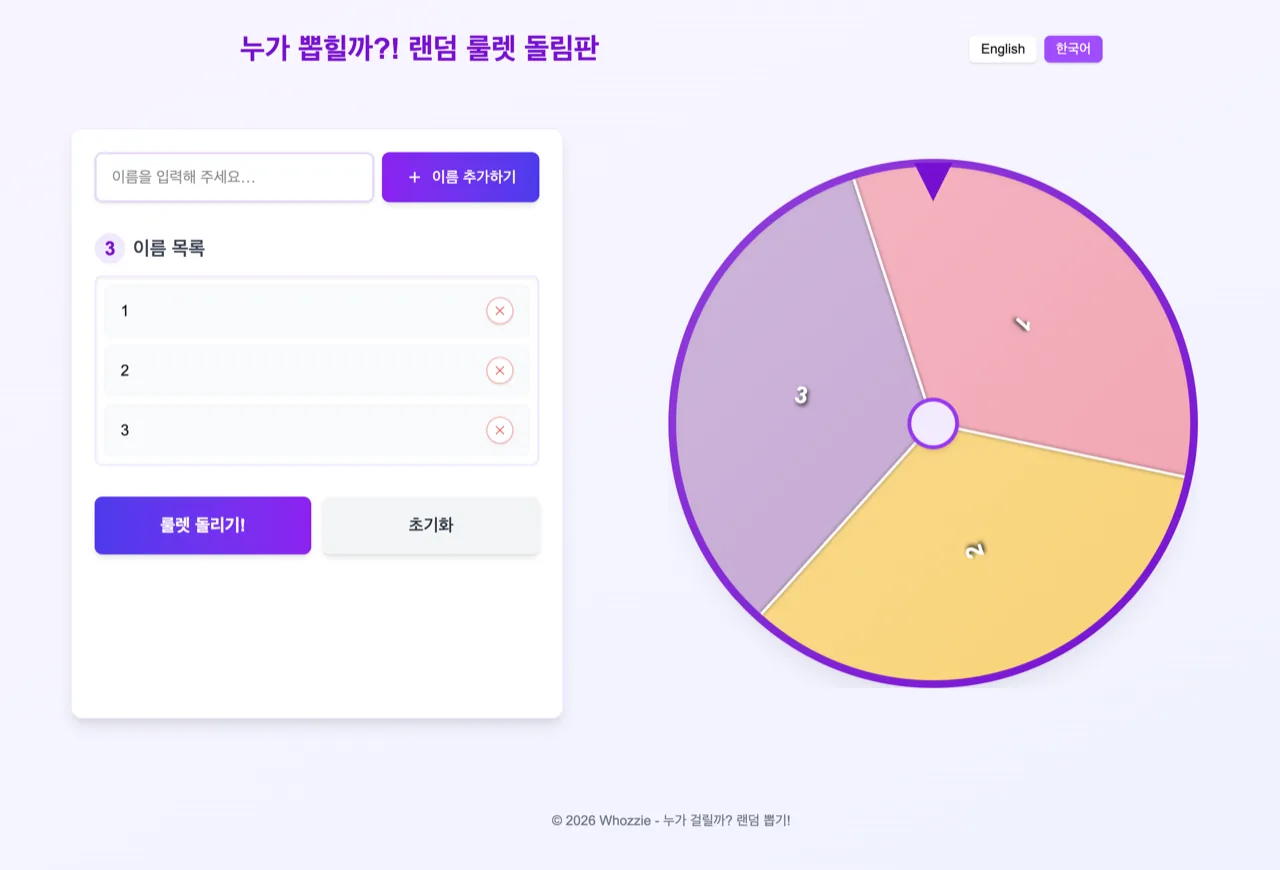
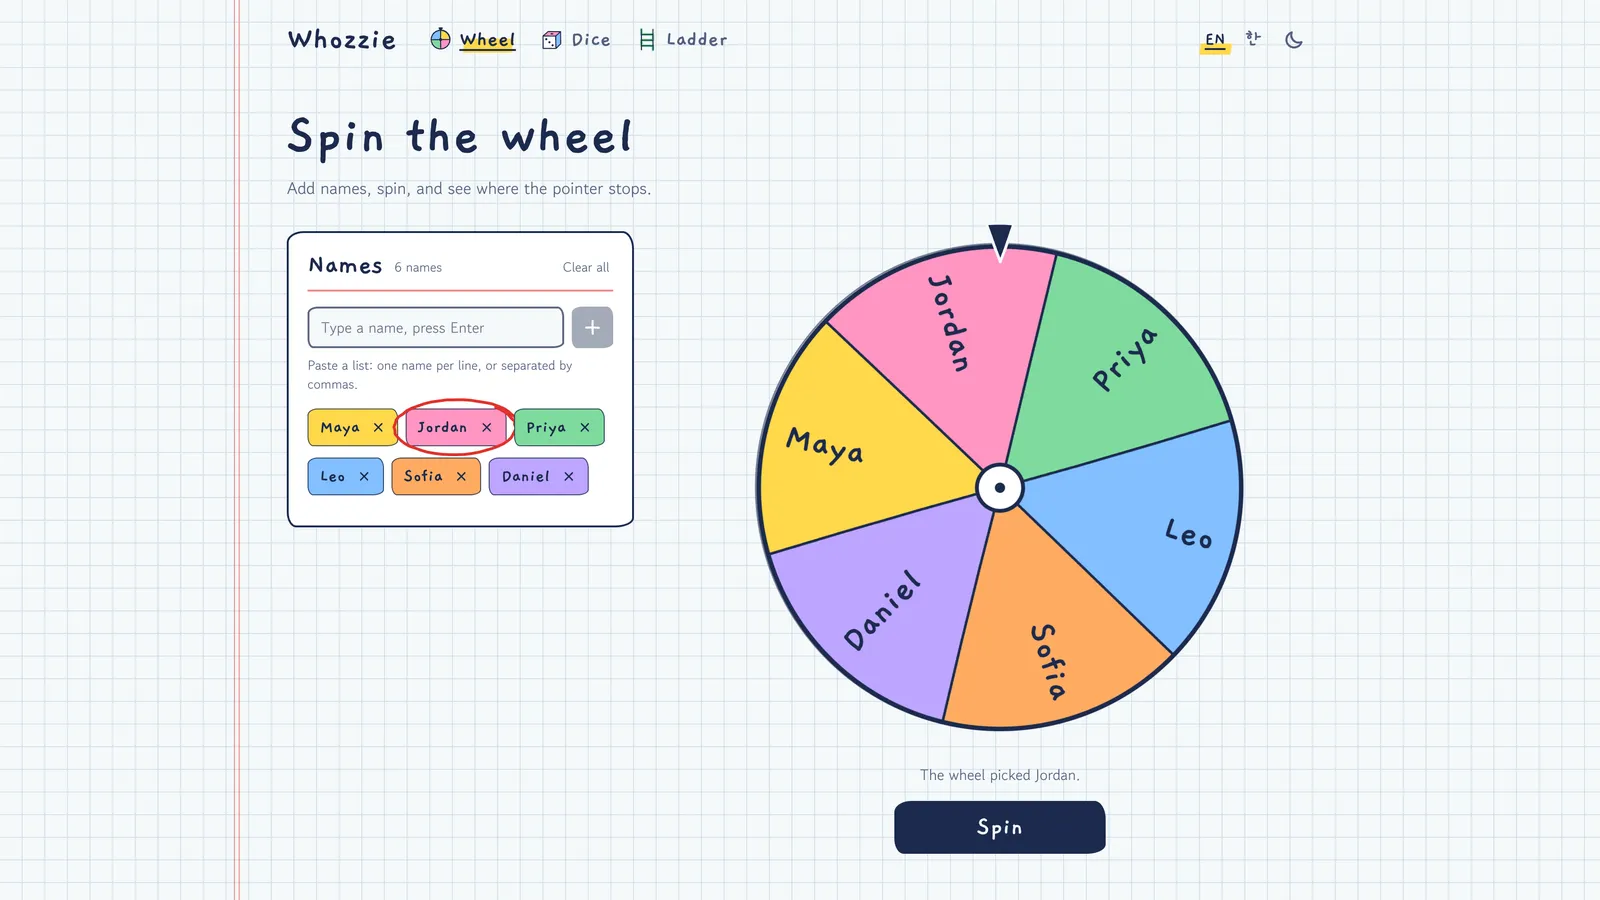
docs(projects): bring whozzie up to date
Whozzie was rebuilt in September 2026: the single wheel became three
tools sharing one names list (the wheel, real-physics 3D dice and a
ladder game) in a notebook/chalkboard design. The page described the
old wheel-only app, and the card was its old 1280x870 screenshot.

The body now covers how each tool keeps its animation out of the pick,
the Rapier dice, the shared names list and the red-pen design. The card
is a 1600x900 capture of the current wheel page. Facts were checked
against the whozzie repo.

diff --git a/_projects/whozzie.md b/_projects/whozzie.md
@@ -1,8 +1,8 @@
 ---
 layout: project
 title: "Whozzie"
-description: "A spin-the-wheel name picker for settling who goes first, in English and Korean."
-tech_stack: ["Next.js", "next-intl", "TypeScript", "React", "Tailwind CSS"]
+description: "Random name picker that keeps one list of names for a spinning wheel, real-physics 3D dice and a ladder game, in English and Korean."
+tech_stack: ["Next.js", "three.js", "React Three Fiber", "Rapier", "next-intl", "TypeScript", "Web Crypto API", "Tailwind CSS", "Vitest"]
 github_url: "https://github.com/zeikar/whozzie"
 demo_url: "https://whozzie.vercel.app"
 image: "/assets/images/projects/whozzie.png"
@@ -10,16 +10,44 @@ sequence: 21
 gadget_no: 9
 ---
 
-Whozzie ("Who's it gonna be?") is for the moment a group can't decide. Type in the names, spin, and whoever stops under the pointer is it.
+Whozzie ("Who's it gonna be?") is for the moment a group can't decide. Write the names down once, then spin a wheel, roll 3D dice, or play the ladder game (Amidakuji) with the same list, and whoever gets picked is circled in red pen. There's no sign-up, and the names never leave the browser.
 
-## The wheel
+## The animation never decides
 
-- **Duplicates are ignored.** A name already on the wheel can't be added twice, so nobody gets two slices.
-- **Draw again without the winner.** The result dialog can take the winner off the wheel, so a full order is spin, remove, repeat.
-- **The spin is the draw.** Each spin adds five to nine full turns plus a random angle and eases out over five seconds. The winner is computed from that final angle, not picked separately.
+Every pick comes from `crypto.getRandomValues`, never `Math.random`. `randomInt` redraws the values that would favor low remainders, and `shuffle` is a Fisher-Yates shuffle on top of it. Each tool then has to keep its animation from having a say:
 
-## Korean from the start
+- **The wheel draws the winner before it moves.** The spin is aimed at that slice: five to seven full turns, plus the way round to it, over 5.2 seconds, stopping anywhere from 12% to 88% of the way across it. The first version did it the other way round, turning the wheel a random whole number of degrees and reading the winner off where it stopped. With seven names, that gave three slices 52 of the 360 possible stops and the other four 51.
+- **The ladder's rungs aren't the draw.** A line with few rungs mostly runs straight down, so whoever stands on it most likely gets the result below. Players are seated on the lines in a uniformly shuffled order instead, and a uniform shuffle composed with any fixed ladder is still uniform, so each player lands on each result with probability 1/n however the rungs fall. The results (one winner, a full order, or the group's own text such as chores) are shuffled along the bottom and taped over, so the covered slots give nothing away. Tests deal tens of thousands of rounds and check the odds to within about six standard deviations, including on a ladder whose rungs fall the same way every round.
+- **The dice are thrown, not scripted.** Crypto randomness sets up each throw and the physics does the rest.
 
-Locale routing went in before the wheel did. next-intl serves English at the root and Korean under `/ko`, and the sitemap lists both.
+Randomness that's only for looks, like the wobble of a hand-drawn line, comes from a seeded PRNG so the server and the browser draw the same thing. It never touches a pick.
 
-Korean names come through an input method, and pressing Enter while a character was still being composed used to add an entry nobody meant to add. The input now ignores Enter until composition finishes.
+## Dice that actually roll
+
+The dice are rigid bodies in a Rapier physics world, drawn with three.js through React Three Fiber. A throw comes in from a random side wall, with each die's starting spot, orientation, velocity and spin drawn from crypto randomness, and the starting spots shuffled between players. The face on top when they stop is the roll. The walls sit just inside the camera's frame, and the camera pulls back as dice are added, so no die rolls out of view.
+
+- **Knowing when a throw is over.** Every die has to stay still for a quarter of a second. A die leaning on a wall or another die, with its top face more than about 25° off level, isn't read: it gets a bump upward and three more seconds to fall flat, up to three times per throw. Waiting is capped too: seven seconds for the throw and three more after each nudge, and after the third nudge the face pointing most nearly up counts.
+- **Ties roll again.** In Everyone rolls (2 to 12 names), only the players tied for the top roll again, until one is left, and people tied further down share a place. The other mode, Just roll, throws up to six plain dice and adds them up, for a board game whose dice have gone missing.
+- **No physics, still a fair roll.** With reduced motion, each face is drawn directly as a uniform 1 to 6 and the dice are set down showing it. If the 3D table can't start (no WebGL, say), an error boundary catches it and the page keeps rolling the same fair numbers without the table.
+- **Idle means idle.** three.js and Rapier load only on the dice page, after it's up. Between throws the physics world is paused and the canvas draws only when something changes. During a throw each frame steps the world itself, in slices of at most 1/90 of a second.
+
+The dice are shaded in three flat tones, like a face colored in with a marker, with an ink outline and slightly wobbly pips. An invisible floor catches their shadows, so the shadows fall on the page itself.
+
+## One list for every tool
+
+The names live in `localStorage`, shared by all three tools and synced across open tabs through the `storage` event. A result belongs to the list it was drawn from, so editing the names, even from another tab, clears it rather than leaving a stale winner.
+
+- **Paste whatever list you have.** One name per line, comma-separated, or rows copied from a spreadsheet: a line with tabs becomes one name, with a numbering column like `1.` dropped. It takes up to 100 names of up to 40 characters, and duplicates are skipped with a note saying which.
+- **Hangul counts once.** Names are normalized to NFC, so the same name typed on one device and pasted from another (a macOS file name, say) doesn't go on twice, and the length cap counts syllables. The Enter that finishes composing a syllable doesn't add half a name, a bug the first version shipped with.
+- **Undo puts a name back where it was.** A name removed from its chip or from the result slip can be restored for six seconds, in its old position, so it gets its color back.
+- **One color per person.** Each name gets one of eight marker colors from its place in the list, on its chip, wheel slice, die and ladder line.
+
+## Graph paper and a red pen
+
+The light theme is the back page of a school notebook: graph paper, ballpoint-blue ink, highlighter colors and a red margin rule. The dark theme is a classroom chalkboard, with an SVG noise filter breaking the drawings into chalk grain. The wheel and the ladder are drawn in lines that bow and wobble like a hand's, and headings, names and buttons are in the Gaegu handwriting font.
+
+Red is kept for the verdict. Whoever gets picked is circled in red pen, in the names list, on the result slip, on the dice's name tags and on the ladder, with a loop that overshoots its start the way people circle things. The loop is seeded with the name, so the same name always gets the same circle. On the ladder, a highlighter traces the line down and the masking tape peels off the result it lands on.
+
+## Where it stands
+
+Whozzie started in April 2025 as a single wheel, with Korean from the first day: the locale routing went in before the wheel did. In September 2026 it was rebuilt around the notebook design and a shared picker layer, and the dice and the ladder game were added on top. Each tool is a folder of components and plain logic with Vitest tests beside it, and CI runs lint, typecheck, tests and a production build. Type checking runs on TypeScript 7, installed side by side with the TypeScript 6 API package that typescript-eslint and `next build` still need. Every page's link preview is a [DOGimg](/projects/dogimg/) card.
